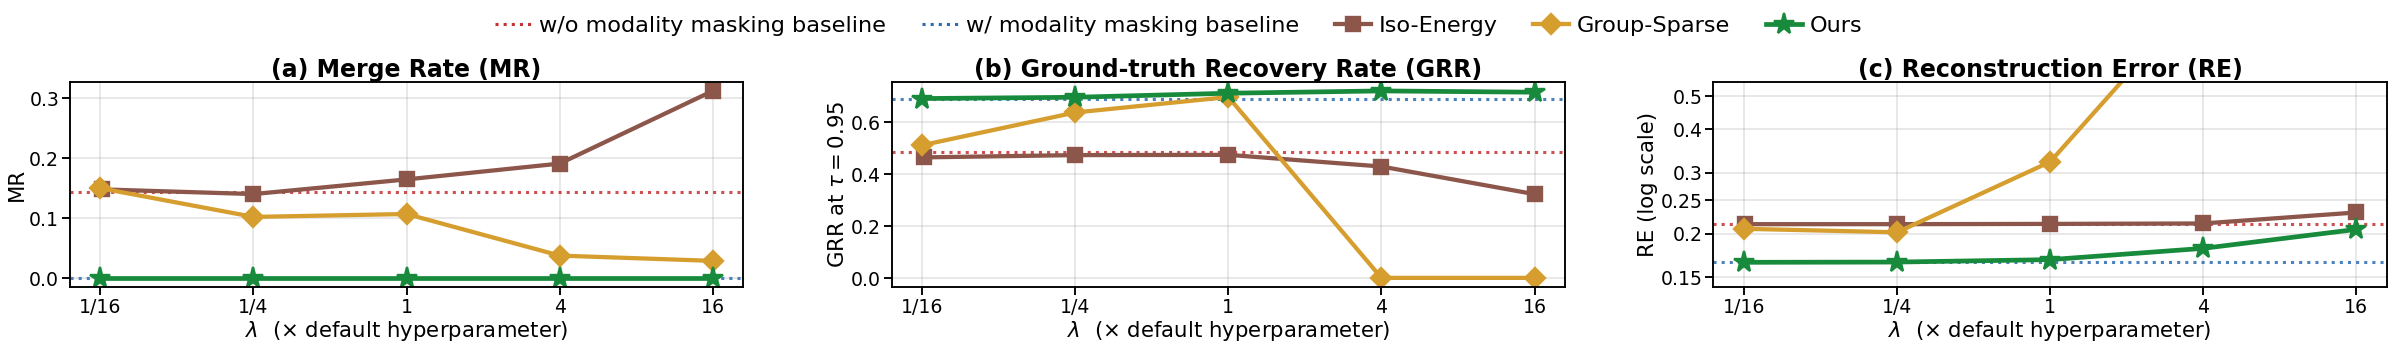
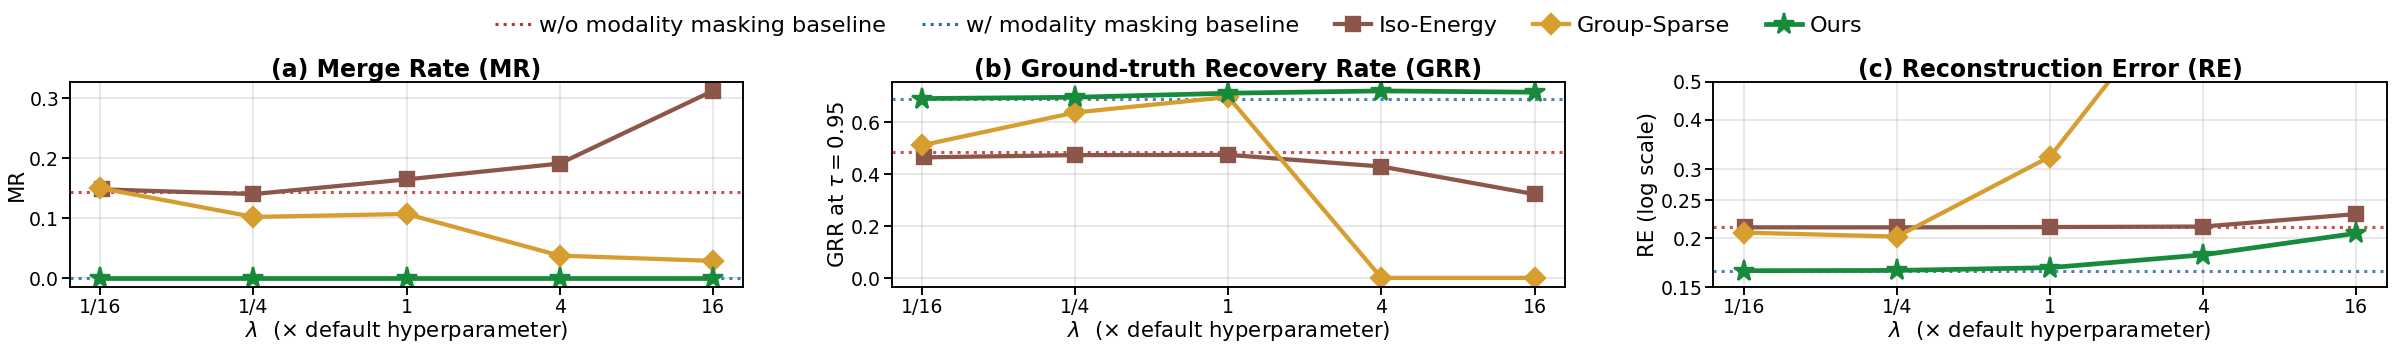
fig1/fig2: RE ylim to (0.15, 0.5) so endpoint ticks sit at edges

diff --git a/scripts/plot_fig1_three_panels.py b/scripts/plot_fig1_three_panels.py
@@ -75,7 +75,7 @@ def make_fig1(json_path: str, out_path: str, alphas_target=(0.2, 0.3, 0.4, 0.5, 
             ax.yaxis.set_minor_locator(FixedLocator([]))
             ax.yaxis.set_major_formatter(FuncFormatter(lambda v, _: f"{v:g}"))
             ax.yaxis.set_minor_formatter(NullFormatter())
-            ax.set_ylim(0.14, 0.55)
+            ax.set_ylim(0.15, 0.5)
         ax.grid(alpha=0.3, which="both")
 
     fig.legend(

diff --git a/scripts/plot_fig2_lambda_sweep.py b/scripts/plot_fig2_lambda_sweep.py
@@ -144,7 +144,7 @@ def make_fig2(root: str, out_path: str):
             ax.yaxis.set_minor_locator(FixedLocator([]))
             ax.yaxis.set_major_formatter(FuncFormatter(lambda v, _: f"{v:g}"))
             ax.yaxis.set_minor_formatter(NullFormatter())
-            ax.set_ylim(0.14, 0.55)
+            ax.set_ylim(0.15, 0.5)
         ax.grid(alpha=0.3, which="both")
         ax.tick_params(labelsize=8, pad=1)
 
